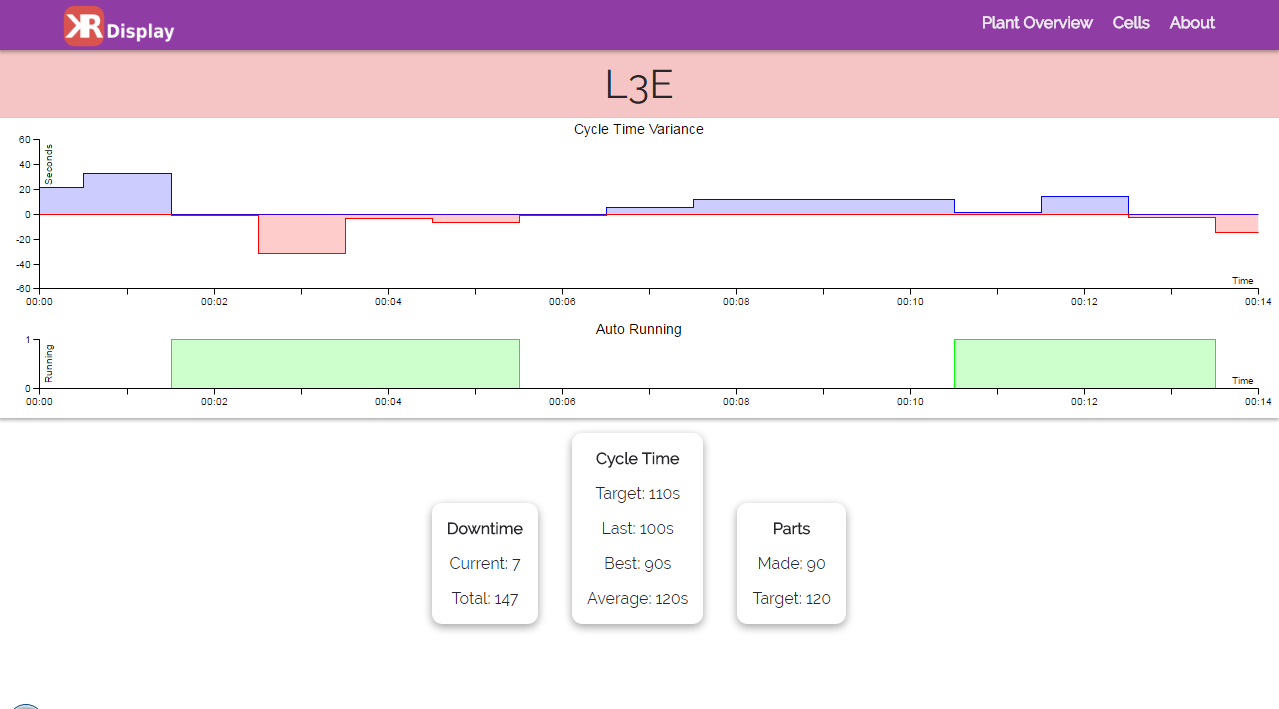
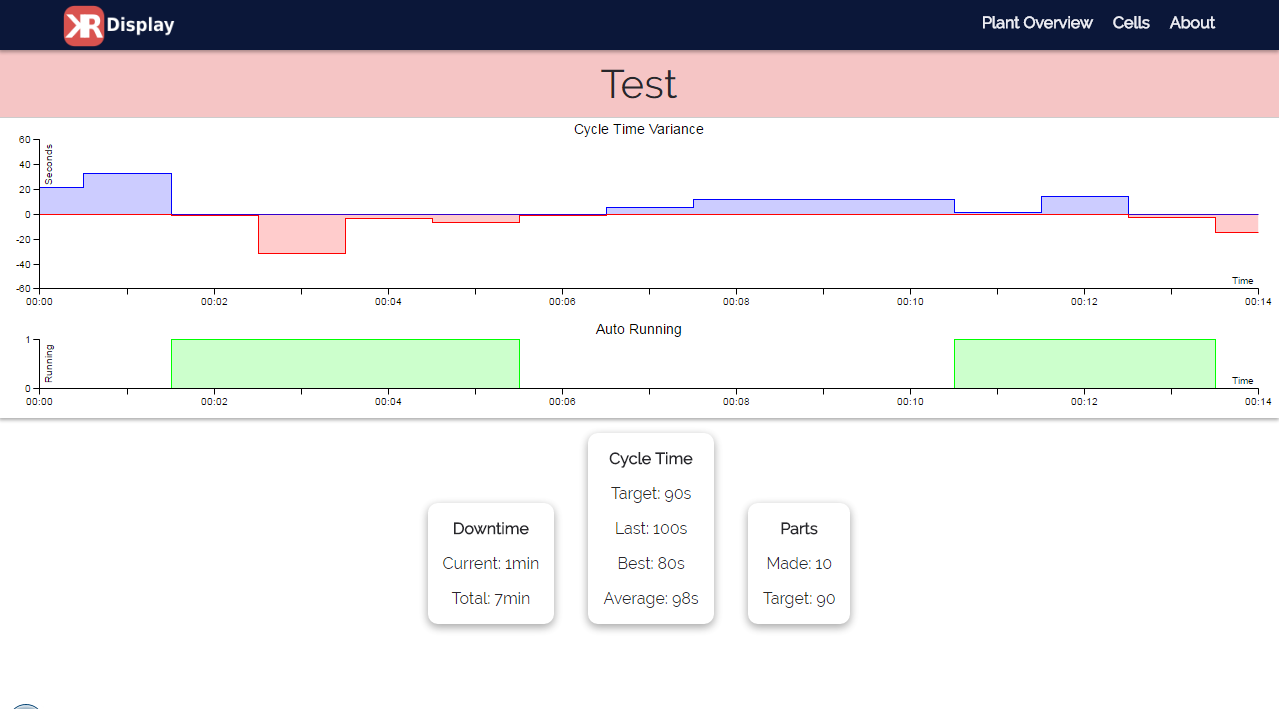
Change styling and cell structure, finish cell collection, disable jobs until sql structure can be decided.

Changed region(s): [[0.0, 0.0, 1.0, 0.1551], [0.3354, 0.6206, 0.6708, 0.8999]]

diff --git a/client/cells/Cell.js b/client/cells/Cell.js
@@ -14,23 +14,23 @@ Template.Cell.helpers({
 	chartData:()=>{
 		var id = FlowRouter.getParam('_id');
 		var cell = Cell.findOne({_id:id});
-		var valueX = cell.gap.valueX;
-		if(valueX){
-			var l = valueX.length;
+		var timeStamp = cell.timeStamp;
+		if(timeStamp.length > 0){
+			var l = timeStamp.length;
 			for(var i = 0; i < l; ++i){
-				var d = Date.parse(valueX[i]);
-				valueX[i] = d;
+				var d = Date.parse(timeStamp[i]);
+				timeStamp[i] = d;
 			}
-			valueX.unshift('valueX');
+			timeStamp.unshift('timeStamp');
 			var positive = ['positive'];
 			var negative = ['negative'];
-			for(val in cell.gap.valueY){
-				if(cell.gap.valueY[val] > 0){
-					positive.push(cell.gap.valueY[val]);
+			for(val in cell.cycleVariance){
+				if(cell.cycleVariance[val] > 0){
+					positive.push(cell.cycleVariance[val]);
 					negative.push(0);
 				}else{
 					positive.push(0);
-					negative.push(cell.gap.valueY[val]);
+					negative.push(cell.cycleVariance[val]);
 				}
 			}
 			var a = {
@@ -44,9 +44,9 @@ Template.Cell.helpers({
 					text:'Cycle Time Variance'
 				},
 				data: {
-				  x:'valueX',
+				  x:'timeStamp',
 				  columns: [
-					valueX,
+					timeStamp,
 					positive,
 					negative
 				  ],
@@ -90,17 +90,16 @@ Template.Cell.helpers({
 	chartData2:()=>{
 		var id = FlowRouter.getParam('_id');
 		var cell = Cell.findOne({_id:id});
-		var valueX2 = cell.gap.valueX;
-		console.log(valueX2);
-		if(valueX2){
-			var l = valueX2.length;
+		var timeStamp = cell.timeStamp;
+		if(timeStamp.length > 0){
+			var l = timeStamp.length;
 			for(var i = 0; i < l; ++i){
-				var d = Date.parse(valueX2[i]);
-				valueX2[i] = d;
+				var d = Date.parse(timeStamp[i]);
+				timeStamp[i] = d;
 			}
-			valueX2.unshift('valueX2');
-			var valueY2 = cell.autoRunning;
-			valueY2.unshift('valueY2');
+			timeStamp.unshift('timeStamp');
+			var autoRunning = cell.autoRunning;
+			autoRunning.unshift('autoRunning');
 			var a = {
 				size: {
 					height: 100
@@ -112,14 +111,14 @@ Template.Cell.helpers({
 					text:'Auto Running'
 				},
 				data: {
-				  x:'valueX2',
+				  x:'timeStamp',
 				  columns: [
-					valueX2,
-					valueY2
+					timeStamp,
+					autoRunning
 				  ],
 				  type: 'area-step',
 				  colors: {
-						'valueY2': '#00ff00'
+						'autoRunning': '#00ff00'
 					}
 				},
 				axis:{

diff --git a/server/main.js b/server/main.js
@@ -67,7 +67,7 @@ Meteor.startup(() => {
 	for(val in cellList){
 		cell = Cell.findOne({name:cellList[val]});
 		if(!cell){
-			Cell.insert({name: cellList[val], fault:false, answered:false,lastCT:0,bestCT:0, averageCT:0,partsMade:0,partsTarget:0, gap:{valueY:[0],valueX:[0]}}, function(error, result) {
+			Cell.insert({name: cellList[val], fault:false, answered:false, downtime:0,totalDowntime:0,lastCT:0,bestCT:0, averageCT:0, targetCT:0,partsMade:0,partsTarget:0, cycleVariance:[],autoRunning:[],timeStamp:[]}, function(error, result) {
 				if(error){
 					console.log(error);
 				}
@@ -83,7 +83,6 @@ Meteor.startup(() => {
 	connection.on('connect', function (err) {
 		if (err) return console.error(err);
 		connected = true;
-		console.log("Connected to mssql");
 		/*
 		var request = new Tedious.Request("SELECT FromPLC, ShiftName, ProductionDate FROM dbo.ProductionResultFromPLC WHERE ShiftName = 'A'", function (err, rowCount) {
 			if (err) {
@@ -107,9 +106,8 @@ Meteor.startup(() => {
 	});
 
 	cells.forEach(function(cell){
-		console.log("Create job: "+cell.name);
-		var job = new Job(Jobs, 'queryDB',{cell:cell.name});
-		job.priority('normal').retry({ retries: 5,wait: 5*1000 }).delay(5*1000).repeat({ wait: 30*1000 }).save();
+		//var job = new Job(Jobs, 'queryDB',{cell:cell.name});
+		//job.priority('normal').retry({ retries: 5,wait: 5*1000 }).delay(5*1000).repeat({ wait: 30*1000 }).save();
 	});
 
 	var workers = Jobs.processJobs('queryDB',function (job, cb) {

diff --git a/both/collections/Cell.js b/both/collections/Cell.js
@@ -20,53 +20,61 @@ CellSchema = new SimpleSchema({
 	},
 	fault:{
 		type:Boolean,
-		label: "Cell Down",
-		optional: true
+		label: "Cell Down"
+	},
+	downtime:{
+		type:Number,
+		label: "Downtime"
+	},
+	totalDowntime:{
+		type:Number,
+		label: "Total Downtime"
 	},
 	answered:{
 		type:Boolean,
-		label: "Call Answered",
-		optional: true
+		label: "Call Answered"
 	},
 	lastCT:{
 		type:Number,
-		label: "Last Cycle Time",
-		optional: true
+		label: "Last Cycle Time"
 	},
 	bestCT:{
 		type:Number,
-		label: "Best Cycle Time",
-		optional: true
+		label: "Best Cycle Time"
 	},
 	averageCT:{
 		type:Number,
-		label: "Average Cycle Time",
-		optional: true
+		label: "Average Cycle Time"
+	},
+	targetCT:{
+		type:Number,
+		label: "Target Cycle Time"
 	},
 	partsMade:{
 		type:Number,
-		label: "Parts Made",
-		optional: true
+		label: "Parts Made"
 	},
 	partsTarget:{
 		type:Number,
-		label: "Parts Made Target",
-		optional: true
+		label: "Parts Made Target"
 	},
-	gap:{
-		type:Object
-	},
-	'gap.$.valueX':{
+	cycleVariance:{
 		type:Array
 	},
-	'gap.$.valueX.$':{
+	'cycleVariance.$':{
 		type:Number
 	},
-	'gap.$.valueY':{
+	autoRunning:{
 		type:Array
 	},
-	'gap.$.valueY.$':{
+	'autoRunning.$':{
 		type:Number
+	},
+	timeStamp:{
+		type:Array
+	},
+	'timeStamp.$':{
+		type:Date
 	}
 });
 

diff --git a/client/cells/Cell.html b/client/cells/Cell.html
@@ -1,5 +1,6 @@
 <template name="Cell">
 	{{#if Template.subscriptionsReady}}
+	{{#if cell}}
 	<div class="billboard cell-title {{#if cell.fault}}cell-down{{/if}}{{#if cell.answered}}-answered{{/if}}">
 		<h2>{{cell.name}}</h2>
 	</div>
@@ -14,8 +15,8 @@
 	<div class="cell-data">
 		<div class="downtime">
 			<p class="title">Downtime</p>
-			<p>Current: {{cell.downtime}}</p>
-			<p>Total: {{cell.totalDown}}</p>
+			<p>Current: {{cell.downtime}}min</p>
+			<p>Total: {{cell.totalDowntime}}min</p>
 		</div>
 		<div class="cycle-time">
 			<p class="title">Cycle Time</p>
@@ -30,6 +31,11 @@
 			<p>Target: {{cell.partsTarget}}</p>
 		</div>
 	</div>
+	{{else}}
+	<div class="billboard cell-title cell-down">
+		<h2>Error: Unable to locate cell in database!</h2>
+	</div>
+	{{/if}}
 	{{else}}
 	<div class="billboard">
 		<h2>Loading...</h2>

diff --git a/client/main.html b/client/main.html
@@ -1,6 +1,6 @@
 <head>
   <link rel="icon" sizes="16x16 32x32" href="/img/favicon.png">
-  <meta id="meta" name="viewport" content="width=device-width; initial-scale=1.0" />
+  <meta name="viewport" content="width=device-width, initial-scale=1">
   <link rel="apple-touch-icon" href="img/homeIcon.png"/>
   <title>KR-Display</title>
 </head>

diff --git a/sass/base.scss b/sass/base.scss
@@ -98,10 +98,10 @@ $headerheight: $navheight;
 $headerheightM: 75px;
 $statusdown: #de4f4f;
 $statusup: #48de48;
-$statusanswered: #c77012;
+$statusanswered: #fcfda7;
 $cellup: #c5f5dd;
 $celldown: #f5c5c5;
-$cellanswered: #f5ddc5;
+$cellanswered: #fcfda7;
 
 $small: 765px;
 

diff --git a/both/collections/Utilities.js b/both/collections/Utilities.js
@@ -20,8 +20,7 @@ UtilitySchema = new SimpleSchema({
 	},
 	fault:{
 		type:Boolean,
-		label: "Fault",
-		optional: true
+		label: "Fault"
 	}
 });
 Utility.attachSchema(UtilitySchema);

diff --git a/client/cells/CellList.js b/client/cells/CellList.js
@@ -7,6 +7,6 @@ Template.CellList.onCreated(function(){
 
 Template.CellList.helpers({
 	cells:()=>{
-		return Cell.find({});
+		return Cell.find({},{sort: {name: 1}});
 	}
 });

diff --git a/client/cells/Cells.js b/client/cells/Cells.js
@@ -7,6 +7,6 @@ Template.Cells.onCreated(function(){
 
 Template.Cells.helpers({
 	cells:()=>{
-		return Cell.find({});
+		return Cell.find({},{sort: {name: 1}});
 	}
 });

diff --git a/README.md b/README.md
@@ -4,9 +4,10 @@ Meteor app for displaying scada data from mssql server.
 Created by Kyle Rassweiler
 
 ## Setup
-- Modify settings.json for your needs
-- run meteor --settings settings.json to test on port 3000
-- Program will auto populate cells and utilities based on values in settings.json
+- Create settings.json in project root with required settings, see example.
+- run the windows bat file to test on port 3000
+- Program will auto populate cells and utilities based on values in settings.json.
+- The data collection will search the database for column [CellName] or [UtilityName] based on the list of cells or utilities in the settings file.
 
 ## Settings Example
 ```json
@@ -46,32 +47,30 @@ Created by Kyle Rassweiler
 ## Cell Example
 ```json
 {
-  "_id": "ghnDPRwKbAyWbGbbG",
-  "name": "Cell001",
-  "fault": true,
-  "answered": false,
-  "downtime":0,
-  "totalDown": 0,
-  "autoRunning": [0,0,1,1,1,1,0,0,0,0,0,1,1,1,0],
-  "lastCT": 100,
-  "targetCT": 110,
-  "bestCT": 90,
-  "averageCT": 120,
-  "partsMade": 90,
-  "partsTarget": 120,
-  "gap":{
-	"valueY":[21,33,-1,-32,-4, -7,-1,5,12,12,12,1,14,-3,-15],
-	"valueX":["2016-07-11 00:00:00","2016-07-11 00:01:00","2016-07-11 00:02:00","2016-07-11 00:03:00","2016-07-11 00:04:00","2016-07-11 00:05:00","2016-07-11 00:06:00","2016-07-11 00:07:00","2016-07-11 00:08:00","2016-07-11 00:09:00","2016-07-11 00:10:00","2016-07-11 00:11:00","2016-07-11 00:12:00","2016-07-11 00:13:00","2016-07-11 00:14:00"]
-  }
+	"_id": "ghnDPRwKbAyWbGbbG",
+	"name": "Cell001",
+	"fault": true,
+	"answered": false,
+	"downtime":0,
+	"totalDowntime": 0,
+	"lastCT": 100,
+	"targetCT": 110,
+	"bestCT": 90,
+	"averageCT": 120,
+	"partsMade": 90,
+	"partsTarget": 120,
+	"cycleVariance":[21,33,-1,-32,-4,-7,-1,5,12,12,12,1,14,-3,-15],
+	"autoRunning": [0,0,1,1,1,1,0,0,0,0,0,1,1,1,0],
+	"timeStamp":["2016-07-11 00:00:00","2016-07-11 00:01:00","2016-07-11 00:02:00","2016-07-11 00:03:00","2016-07-11 00:04:00","2016-07-11 00:05:00","2016-07-11 00:06:00","2016-07-11 00:07:00","2016-07-11 00:08:00","2016-07-11 00:09:00","2016-07-11 00:10:00","2016-07-11 00:11:00","2016-07-11 00:12:00","2016-07-11 00:13:00","2016-07-11 00:14:00"]
 }
 ```
 
 ## Utility Example
 ```json
 {
-  "_id": "3Wkp4h2yTGPaKv6K9",
-  "name": "Electrical",
-  "fault": true
+	"_id": "3Wkp4h2yTGPaKv6K9",
+	"name": "Electrical",
+	"fault": true
 }
 ```
 
